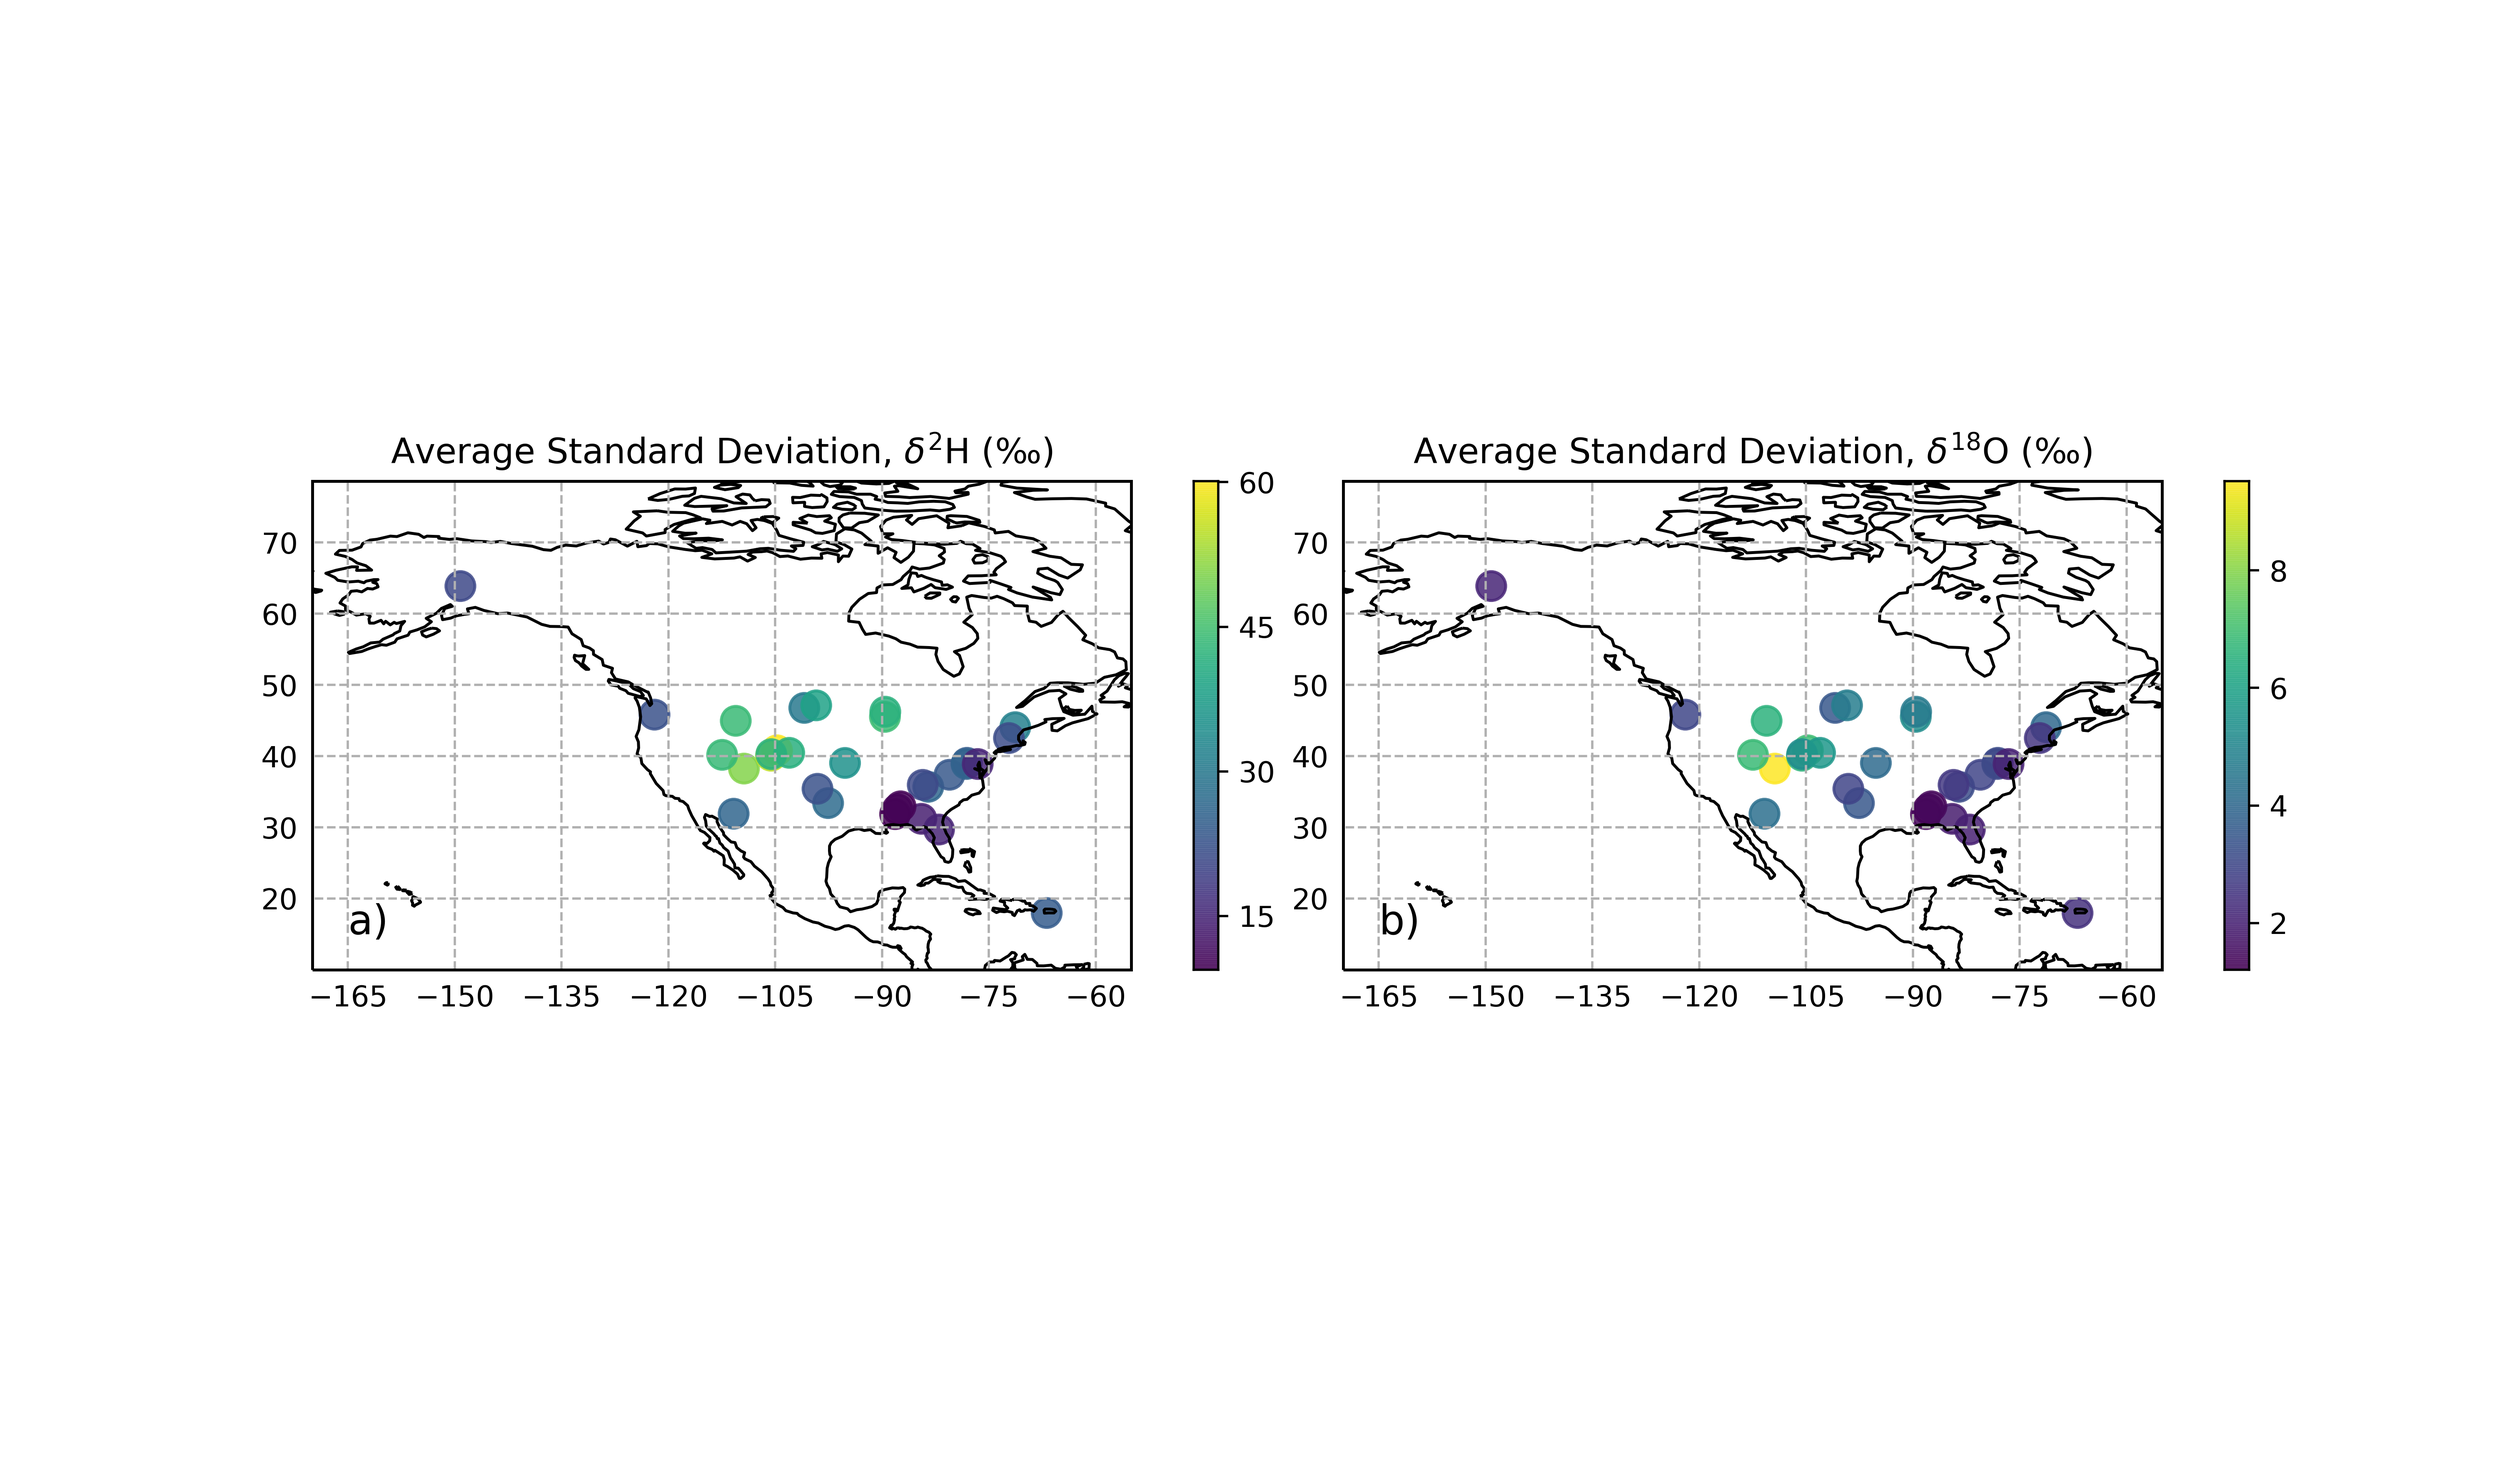
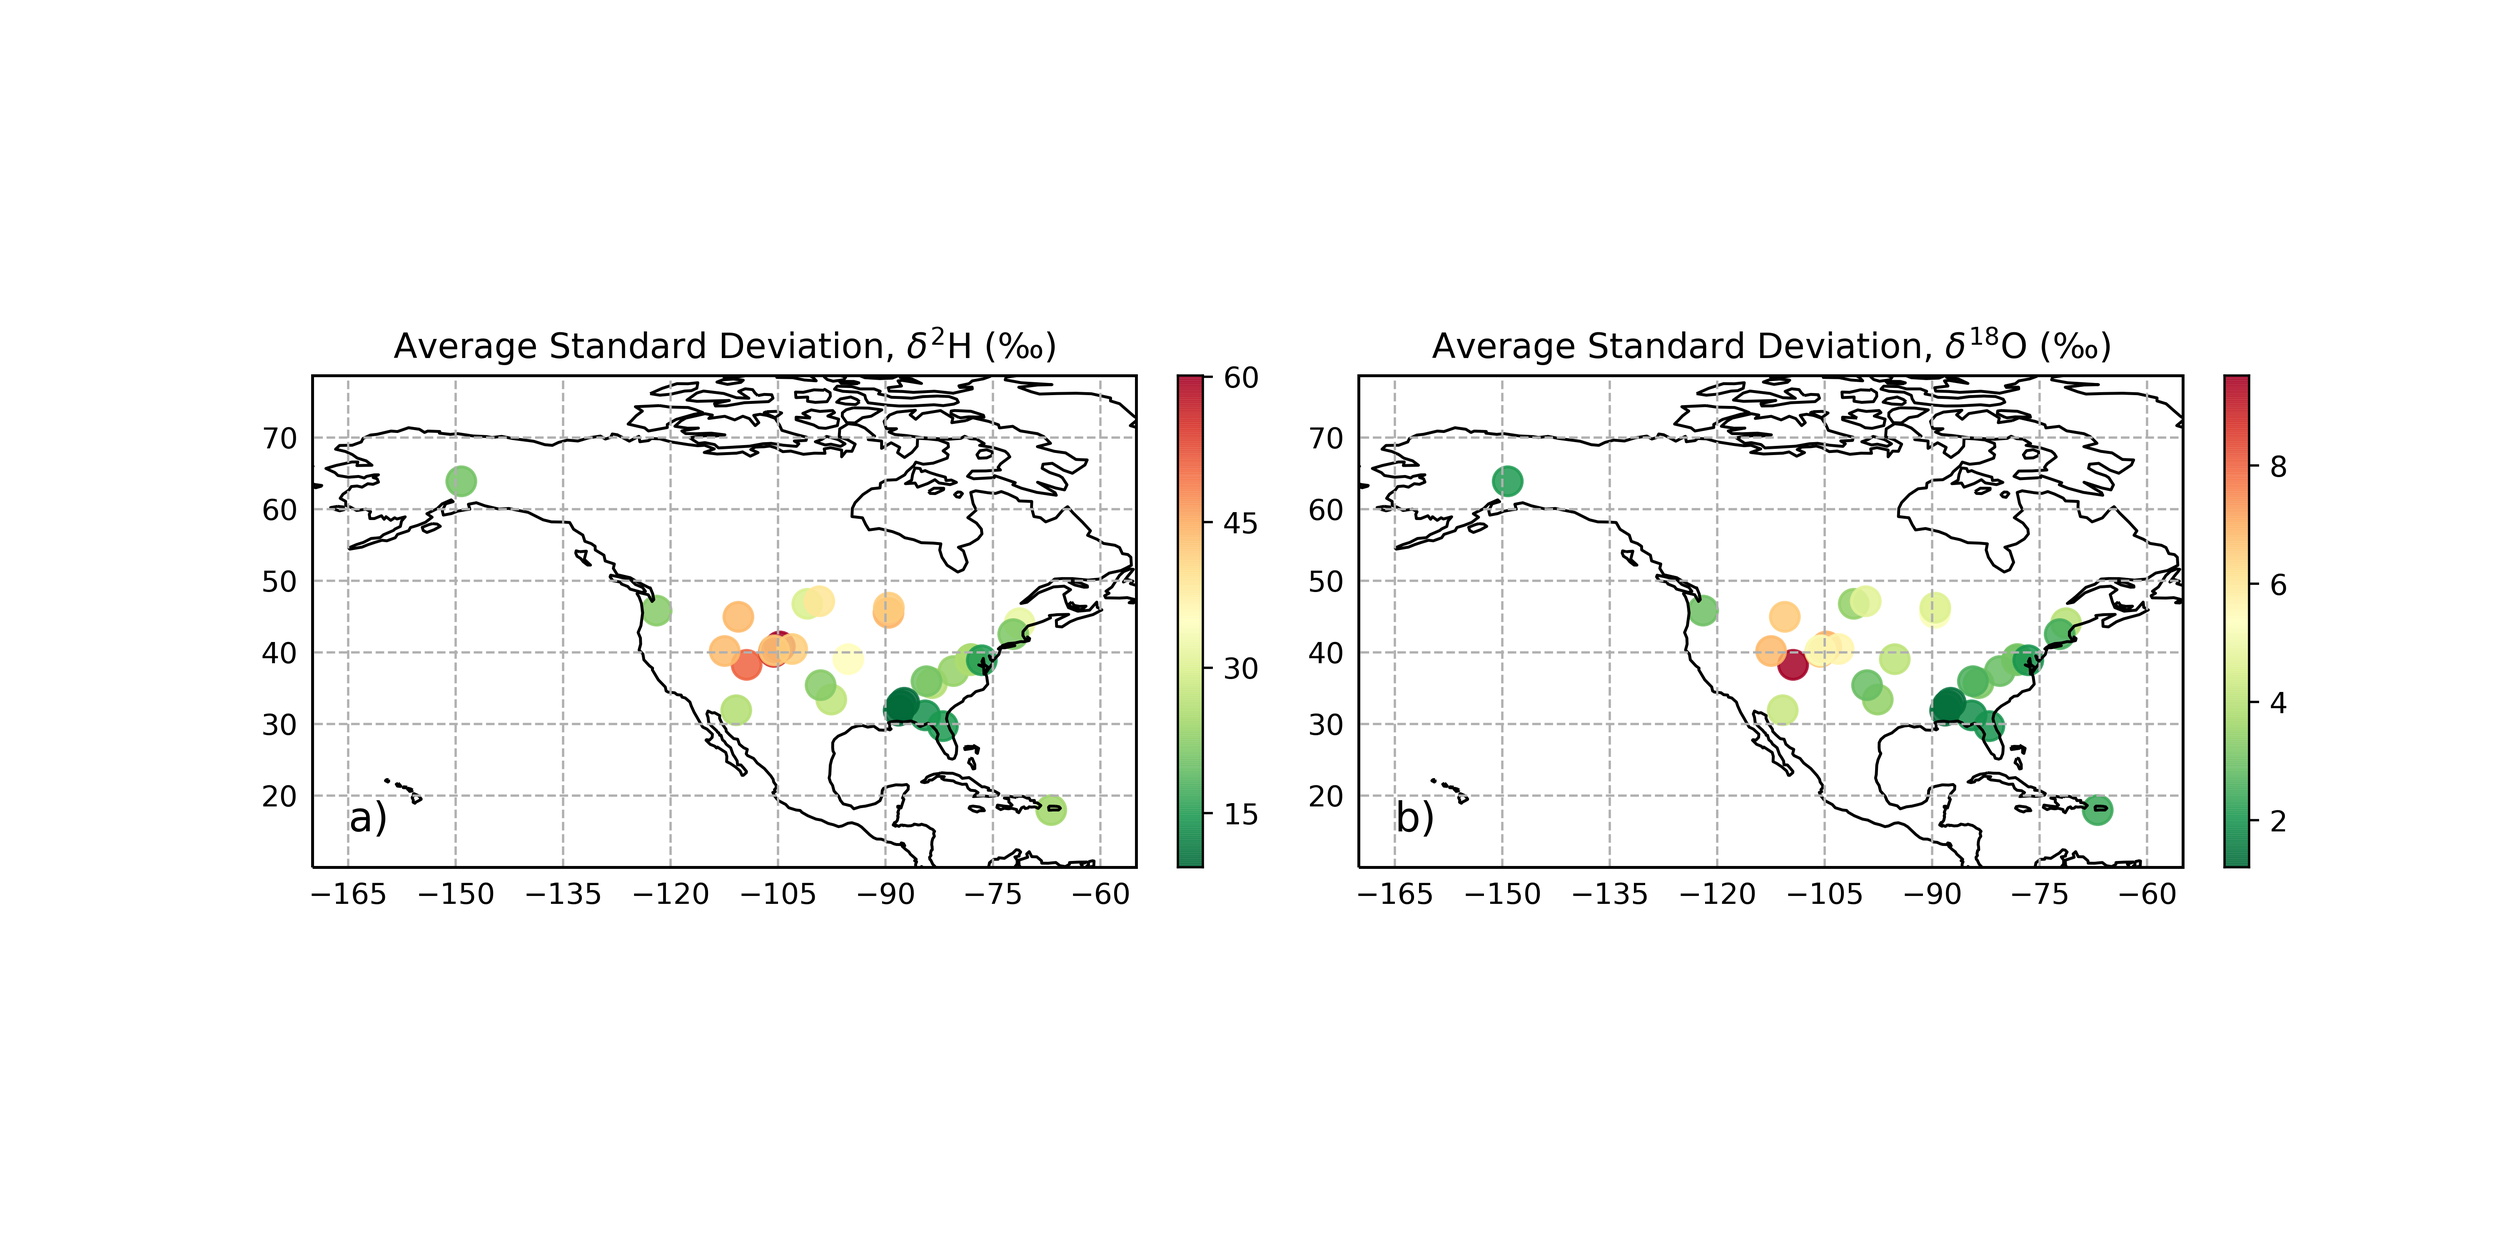
updates before merge

Changed region(s): [[0.0935, 0.248, 0.9038, 0.744], [0.1247, 0.496, 0.187, 0.527]]

diff --git a/scientific_data_figures.py b/scientific_data_figures.py
@@ -23,7 +23,7 @@ df_p_d18O = pd.read_csv(ROOTDIR + '/daily_d18O.csv', parse_dates=True, index_col
 
 
 ''' Figure 1. Time series of generated datasets '''
-make_Fig1 = True
+make_Fig1 = False
 if make_Fig1 == True:
     ### location of NOEN 30 min Precip + Biweekly Isotope Data
     df_biweekly_onaq = pd.read_excel(ROOTDIR + '/DATA/IsoData/ONAQIsoData.xlsx', parse_dates=True, index_col='collectDate')
@@ -84,6 +84,7 @@ if make_Fig2 == True:
     df_p_d2H = pd.read_csv(ROOTDIR + '/daily_d2H.csv', parse_dates=True, index_col=0)
     df_p_d18O = pd.read_csv(ROOTDIR + '/daily_d18O.csv', parse_dates=True, index_col=0)
     df_summary = pd.read_csv(ROOTDIR + '/Site_Summary_Table.csv') # for site lat/lon
+    df_ET_stats = pd.read_csv(ROOTDIR + '/ET_iso_stats.csv')
     
     lat = []
     lon = []
@@ -110,7 +111,7 @@ if make_Fig2 == True:
                         alpha=0.85, 
                         s=100,
                         c = values,
-                        cmap = plt.get_cmap("viridis"), 
+                        cmap = plt.get_cmap("RdYlGn_r"), 
                         transform = ccrs.PlateCarree())
         axgr.cbar_axes[ii].colorbar(im)
         axgr[ii].set_title(label)
@@ -118,28 +119,53 @@ if make_Fig2 == True:
     projection = ccrs.PlateCarree()
     axes_class = (GeoAxes, dict(map_projection = projection))   
     
-    fig = plt.figure(1,figsize = (12,7))
+    fig = plt.figure(1,figsize = (18,12))
     axgr = AxesGrid(fig, 111, axes_class = axes_class, 
-                        nrows_ncols=(1,2), 
-                        axes_pad=0.6,
+                        nrows_ncols=(3,2), 
+                        axes_pad=0.75,
                         cbar_location = 'right',
                         cbar_mode = 'each',
-                        cbar_pad = 0.3,
+                        cbar_pad = 0.2,
                         cbar_size = '3%',
                         label_mode = '')
     
     create_map(np.array(lat), np.array(lon),
                df_p_d2H.mean(axis=0),
-               'Average, $\delta^{2}$H (‰)', 
+               'Average P, $\delta^{2}$H (‰)', 
                axgr[0], 0)
     axgr[0].text(-165, 15, 'a)', fontsize=14)
     
     create_map(np.array(lat), np.array(lon),
                df_p_d18O.mean(axis=0),
-               'Average, $\delta^{18}$O (‰)', 
+               'Average P, $\delta^{18}$O (‰)', 
                axgr[1], 1)
     axgr[1].text(-165, 15, 'b)', fontsize=14)
+
+    create_map(np.array(lat), np.array(lon),
+               df_ET_stats['H2_ET_mean'],
+               'Average ET, $\delta^{2}$H (‰)', 
+               axgr[2], 2)
+    axgr[2].text(-165, 15, 'c)', fontsize=14)
     
+    create_map(np.array(lat), np.array(lon),
+               df_ET_stats['O18_ET_mean'],
+               'Average ET, $\delta^{18}$O (‰)', 
+               axgr[3], 3)
+    axgr[3].text(-165, 15, 'd)', fontsize=14)
+
+    create_map(np.array(lat), np.array(lon),
+               df_ET_stats['C13_mean'],
+               r'Average ET, $\delta^{13}$C (‰)', 
+               axgr[4], 4)
+    axgr[4].text(-165, 15, 'e)', fontsize=14)
+    
+    # create_map(np.array(lat), np.array(lon),
+    #            df_ET_stats['O18_slope_std'],
+    #            'Standard Deviation Slope ET, $\delta^{18}$O (‰)', 
+    #            axgr[5], 5)
+    # axgr[5].text(-165, 15, 'f)', fontsize=14)
+    
+    fig.delaxes(axgr[5])
     plt.savefig(ROOTDIR+'/Fig2.png', dpi=500)
     plt.show()
 
@@ -150,6 +176,7 @@ if make_Fig3 == True:
     df_avg_std_d2H = pd.read_csv(ROOTDIR + '/d2H_Pstds.csv', index_col=0)
     df_avg_std_d18O = pd.read_csv(ROOTDIR + '/d18O_Pstds.csv', index_col=0)
     df_summary = pd.read_csv(ROOTDIR + '/Site_Summary_Table.csv') # for site lat/lon
+    df_ET_stats = pd.read_csv(ROOTDIR + '/ET_iso_stats.csv')
     
     lat = []
     lon = []
@@ -176,7 +203,7 @@ if make_Fig3 == True:
                         alpha=0.85, 
                         s=100,
                         c = values,
-                        cmap = plt.get_cmap("viridis"), 
+                        cmap = plt.get_cmap("RdYlGn_r"), 
                         transform = ccrs.PlateCarree())
         axgr.cbar_axes[ii].colorbar(im)
         axgr[ii].set_title(label)
@@ -184,13 +211,13 @@ if make_Fig3 == True:
     projection = ccrs.PlateCarree()
     axes_class = (GeoAxes, dict(map_projection = projection))   
     
-    fig = plt.figure(1,figsize = (12,7))
+    fig = plt.figure(1,figsize = (12,6))
     axgr = AxesGrid(fig, 111, axes_class = axes_class, 
                         nrows_ncols=(1,2), 
-                        axes_pad=0.6,
+                        axes_pad=0.75,
                         cbar_location = 'right',
                         cbar_mode = 'each',
-                        cbar_pad = 0.3,
+                        cbar_pad = 0.2,
                         cbar_size = '3%',
                         label_mode = '')
     
@@ -210,6 +237,77 @@ if make_Fig3 == True:
     plt.show()
 
 
+''' Figure 4. Average STE in slope of Keeling '''
+make_Fig4 = True
+if make_Fig4 == True:
+    df_avg_std_d2H = pd.read_csv(ROOTDIR + '/d2H_Pstds.csv', index_col=0)
+    df_avg_std_d18O = pd.read_csv(ROOTDIR + '/d18O_Pstds.csv', index_col=0)
+    df_summary = pd.read_csv(ROOTDIR + '/Site_Summary_Table.csv') # for site lat/lon
+    df_ET_stats = pd.read_csv(ROOTDIR + '/ET_iso_stats.csv')
+    
+    lat = []
+    lon = []
+    
+    for i in df_avg_std_d2H.columns:
+        row = df_summary[df_summary['Site ID'].str.match(i)]
+        
+        if len(row) > 0:
+            lat.append(float(row['Latitude'].values))
+            lon.append(float(row['Longitude'].values))
+        else:
+            lat.append(-9999)
+            lon.append(-9999)
+    
+    def create_map(lat, lon, values, label, current_subplot, ii):
+        ax = current_subplot
+        ax.set_extent([-170, -55, 10, 70], ccrs.Geodetic())
+        gl = ax.gridlines(linestyle='--', draw_labels=True)
+        gl.xlabels_top = False
+        gl.ylabels_right = False
+        ax.coastlines()
+        
+        im = ax.scatter(lon, lat, 
+                        alpha=1, 
+                        s=100,
+                        c = values,
+                        cmap = plt.get_cmap("RdYlGn_r"), 
+                        transform = ccrs.PlateCarree())
+        axgr.cbar_axes[ii].colorbar(im)
+        axgr[ii].set_title(label)
+        
+    projection = ccrs.PlateCarree()
+    axes_class = (GeoAxes, dict(map_projection = projection))   
+    
+    fig = plt.figure(1,figsize = (19,6))
+    axgr = AxesGrid(fig, 111, axes_class = axes_class, 
+                        nrows_ncols=(1,3), 
+                        axes_pad=0.75,
+                        cbar_location = 'right',
+                        cbar_mode = 'each',
+                        cbar_pad = 0.2,
+                        cbar_size = '3%',
+                        label_mode = '')
+    
+    create_map(np.array(lat), np.array(lon),
+               df_ET_stats['H2_slope_std'],
+               'Average Standard Error, $\delta^{2}$H (‰)', 
+               axgr[0], 0)
+    axgr[0].text(-165, 15, 'a)', fontsize=14)
+    
+    create_map(np.array(lat), np.array(lon),
+               df_ET_stats['O18_slope_std'],
+               'Average Standard Error, $\delta^{18}$O (‰)', 
+               axgr[1], 1)
+    axgr[1].text(-165, 15, 'b)', fontsize=14)
+
+    create_map(np.array(lat), np.array(lon),
+               df_ET_stats['C13_slope_std'],
+               r'Average Standard Error, $\delta^{13}$C (‰)', 
+               axgr[2], 2)
+    axgr[2].text(-165, 15, 'c)', fontsize=14)
+    
+    plt.savefig(ROOTDIR+'/Fig4.png', dpi=500)
+    plt.show()
 
 
 
